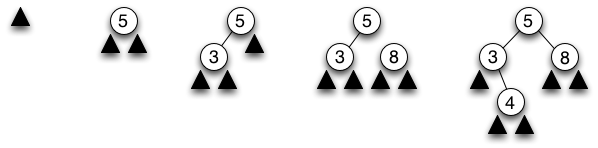
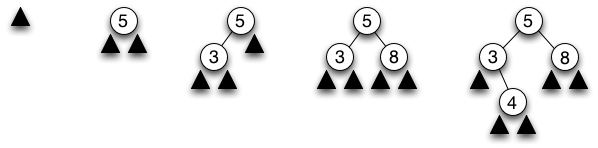
fig.

diff --git a/drill/11.md b/drill/11.md
@@ -17,9 +17,11 @@ data Tree a = Leaf | Node (Tree a) a (Tree a)
 
 このように、木は再帰的な構造を持つ。よって、再帰的な処理が適している。
 
-節を○、葉を△で表現し、いくつかの木を図示してみよう。
+節を○、葉を▲で表現し、いくつかの木を図示してみよう。
 
 ![節と葉](figs/leaf-node.png?raw=true)
+
+左から右へ、それぞれ要素が0から4の木の例である。要素が1個以上の場合、葉を書くのは冗長であるから、これ以降は描かない。▲は、要素数が0個の木、すなわち空の木を表すときだけに用いる。
 
 ## 二分木とリスト
 
